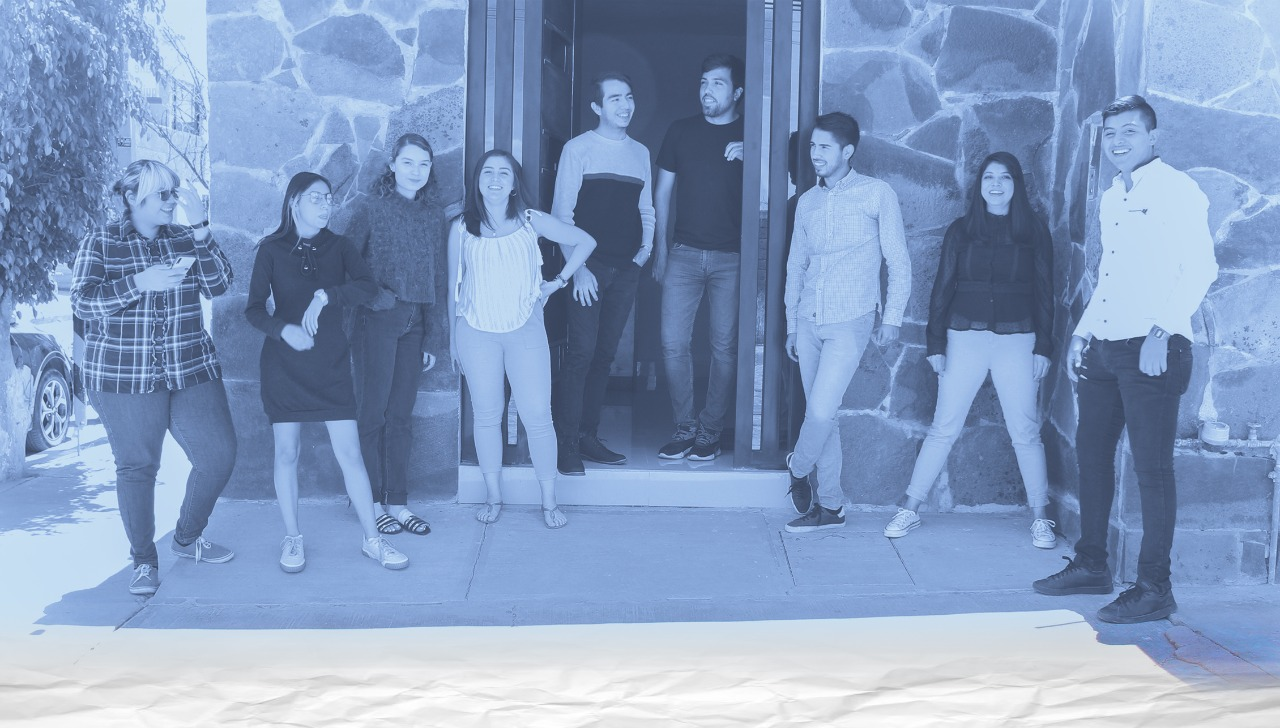
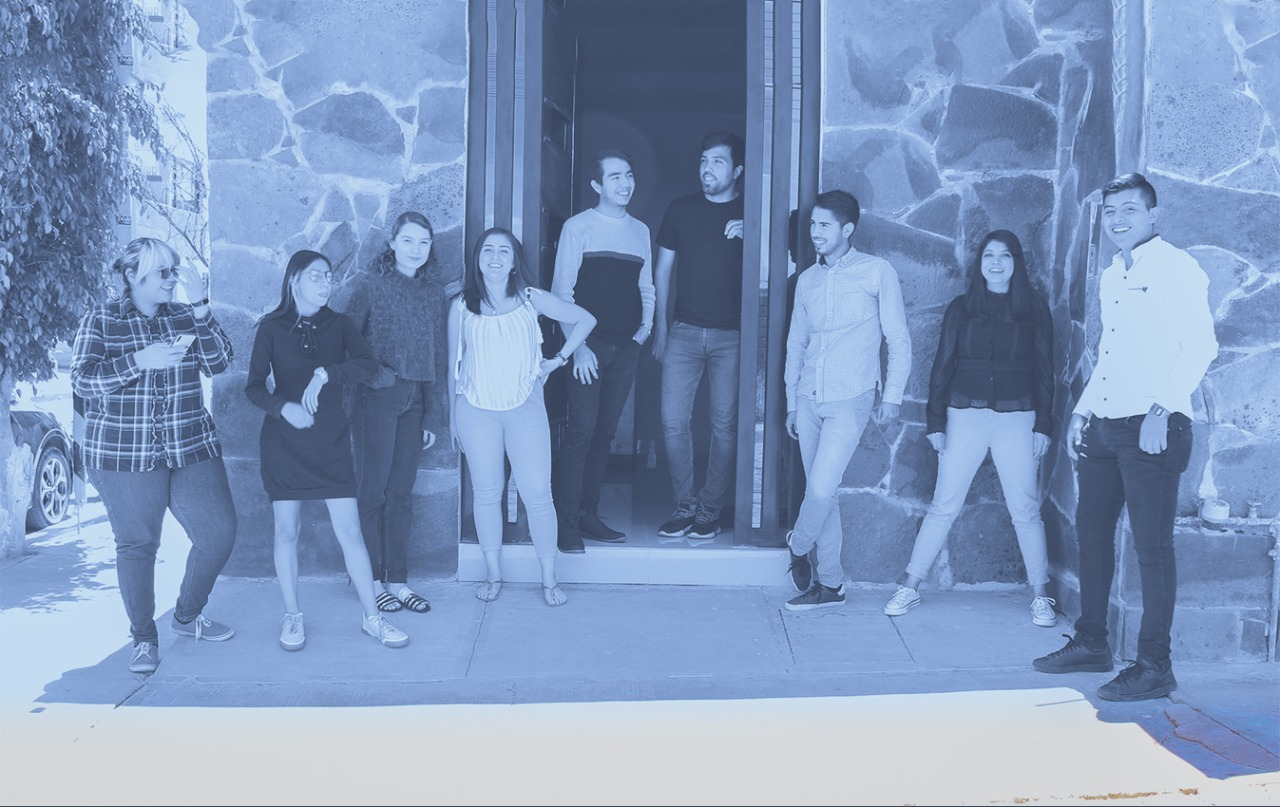
actu

diff --git a/Nosotros.php b/Nosotros.php
@@ -55,7 +55,7 @@
         <?php include_once('comun/menu.php') ?>
       <!-- Inicio-->
         <section class="section section-lg section-main-bunner section-main-bunner-filter">
-          <div class="bg-img bg-img-rt"></div>
+          <div class="main-bunner-img" style="width: all; background-image: url(&quot;Recursos/Somos/rt.jpg&quot;);"></div>
           <div class="main-bunner-inner">
             <div class="container">
               <div class="row row-50 justify-content-lg-center align-items-lg-center">
